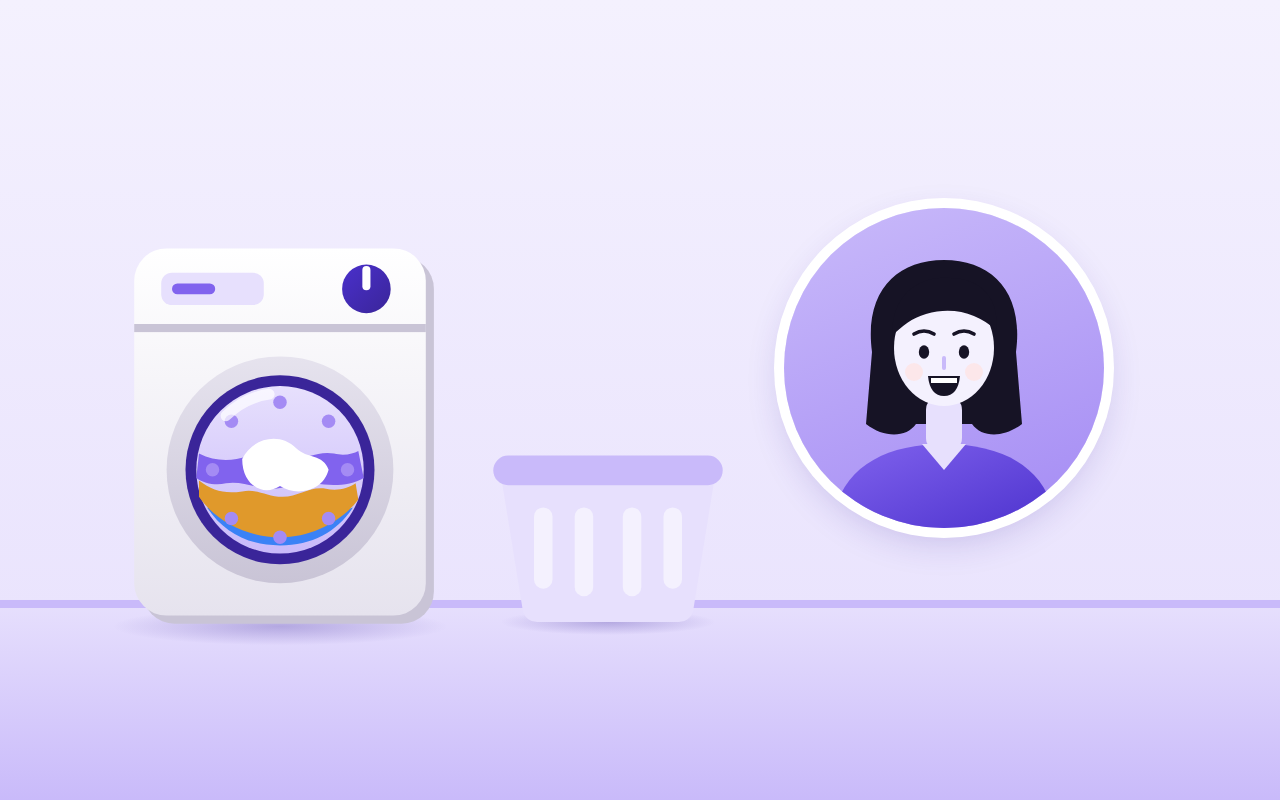
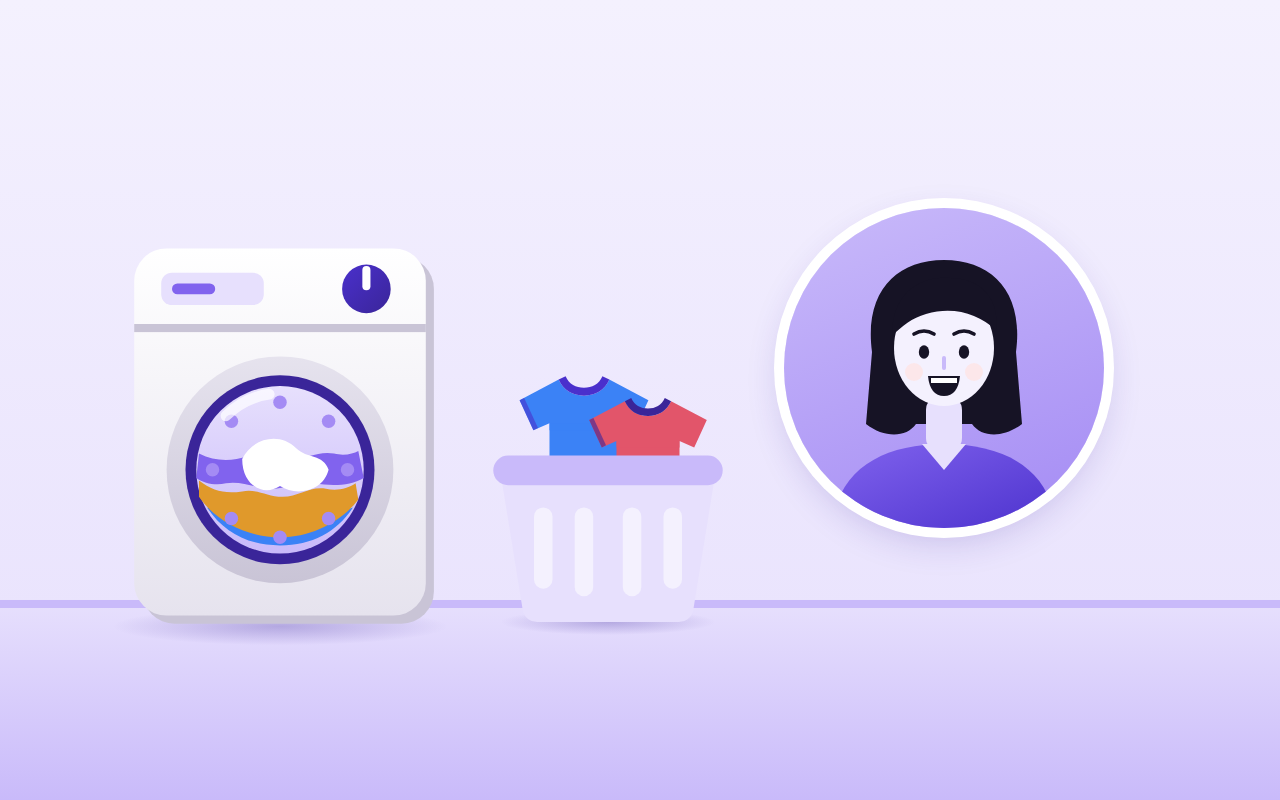
Kurse 5, 8, 12: geprüft (pruefen.mjs), Untertitel, Titelbild, Quizfragen
Claude-Session: https://claude.ai/code/session_01LvWzEVy7pk5adwR2DusHe5

Changed region(s): [[0.4062, 0.4688, 0.5625, 0.5938]]

diff --git a/kurse/13-einkaufen-budget/film.vorlage.html b/kurse/13-einkaufen-budget/film.vorlage.html
@@ -234,6 +234,7 @@
 <script src="../../werkzeug/motor.js"></script>
 <script src="../../werkzeug/sprache.js"></script>
 <script>
+// Sprache beginnt im Film bei VERSATZ = 0.6 s (werkzeug/sprache.js) – untertitel.mjs liest diese Zeile
 const MX = 1320, MY = 440;
 kamera.basis.y = 100;                    // ohne Untertitel sitzt die Bühne mittig (440 + 100)
 for (let i = 0; i < 10; i++) akteur('bue' + i, { x: S(i) + MX, y: MY });

diff --git a/kurse/10-lueften-heizen/film.vorlage.html b/kurse/10-lueften-heizen/film.vorlage.html
@@ -213,7 +213,7 @@
 </div></div>
 
 <script src="../../werkzeug/motor.js"></script>
-<script src="../../werkzeug/sprache.js"></script>
+<script src="../../werkzeug/sprache.js"></script><!-- VERSATZ = 0.6 (aus werkzeug/sprache.js, für untertitel.mjs) -->
 <script>
 const MX = 1320, MY = 440;
 kamera.basis.y = 100;                    // ohne Untertitel sitzt die Bühne mittig (440 + 100)

diff --git a/kurse/09-pfand/film.vorlage.html b/kurse/09-pfand/film.vorlage.html
@@ -169,6 +169,7 @@
 
 <script src="../../werkzeug/motor.js"></script>
 <script src="../../werkzeug/sprache.js"></script>
+<!-- Für werkzeug/untertitel.mjs: VERSATZ = 0.6 (gesetzt in werkzeug/sprache.js) -->
 <script>
 const MX = 1320, MY = 440;
 kamera.basis.y = 100;
